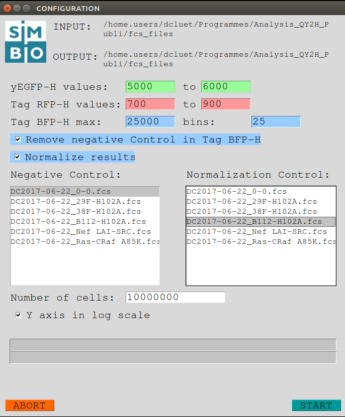
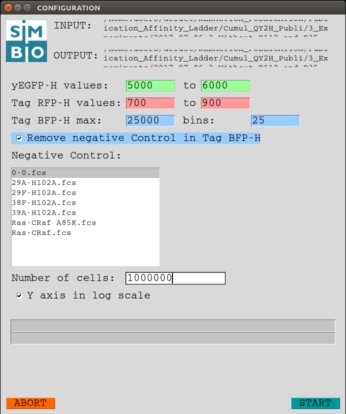
Update Readme

diff --git a/src/utils/Functions.py b/src/utils/Functions.py
@@ -18,7 +18,7 @@ def CreatePDF(Config):
     now = datetime.datetime.now()
     NomPdf = str(now.year) + '-' + str(now.month) + '-' + str(now.day) + '_'
     NomPdf += str(now.hour) + '-' + str(now.minute) + '_'
-    NomPdf += 'Titration_TF'
+    NomPdf += 'Affinity_Ladder'
     NomPdf += '.pdf'
 
     # Create the matplotlib pdf report.
@@ -133,7 +133,7 @@ def Draw_Cumulative(Couples_M,
     dictMarker[(3, 1)] = '>'
     dictMarker[(3, 0)] = 'D'
 
-    mymin = 1
+    mymin = 1000000
 
     for C in Couples_M:
         mymarker = dictMarker[(iteration, index % 2)]
@@ -207,11 +207,8 @@ def Draw_Cumulative(Couples_M,
                 print(T)
 
     if Config.semilog == 1 and Config.stand == 0:
-        plt.ylim(ymin=1)
-    elif Config.semilog == 1 and Config.stand == 1:
         print(str(mymin))
         plt.ylim(ymin=mymin/2)
-        plt.ylim(ymax=2)
     else:
         plt.ylim(ymin=0)
 

diff --git a/src/utils/Variables.py b/src/utils/Variables.py
@@ -13,7 +13,7 @@ RemoveNoise = 1
 NormalizeSignal = 0
 
 # Number of Cells.
-NbC = 10000000
+NbC = 1000000
 
 # Figures format
 Dimension = (8, 4)  # inches.

diff --git a/README.md b/README.md
@@ -177,13 +177,13 @@ The value `BFP bins` corresponds to the number of points you want to be displaye
 
 You can remove the background of the system by selecting `Remove negative Control`. In this case the negative control will not be displayed (as it becomes equal to 0). Deselect this option could be a good option to monitor the real contribution of the background in your experimental/analysis setup, especially for the weakest interactors.
 
-The program is by default set to standardize all experiments using a covalent interactor (B112-AD fused to the Lex-A BD). You can inactivate this otion by unchecking `Normalize results`.
-
 ![Controls](/doc/Select_Controls.png)
 
-You need to specify which sample files correspond to your `negative` (0-0) and `normalization`  (B112-H102A) controls, even if no background substraction nor signal normalization is applied. In this example, the file `DC2017-06-22_0-0.fcs` corresponds to a qY2H experiment performed with the fluorescent empty (0) BD-Bait and AD-Prey fusion proteins.
+You need to specify which sample file corresponds to your `negative` (0-0) control, even if no background substraction is applied. In this example, the file `0-0.fcs` corresponds to a qY2H experiment performed with the fluorescent empty (0) BD-Bait and AD-Prey fusion proteins.
 
 The `Number of cells` value corresponds to the maximum number of cells to be loaded from your file before doing the dual gating in the `AD-Prey GFP` and `BD-Bait RFP` channels.
+
+**We highly recommend you to analyse at least 1,000,000 event to obtain a reliable affinity ladder.**
 
 You have the possibility to display the `Cumulative mean` in log or linear scale.
 
@@ -195,7 +195,6 @@ During the analysis the two `Progress Bars` inform you which file (first bar) is
 
 Finally, the program displays the result of the analysis, with the main settings in the title. Here we present the result with the following activated options:
 - **Remove negative Control**
-- **Normalize results**
 - **Y axis in log scale**
 
 ![Results](/doc/Results.png)
